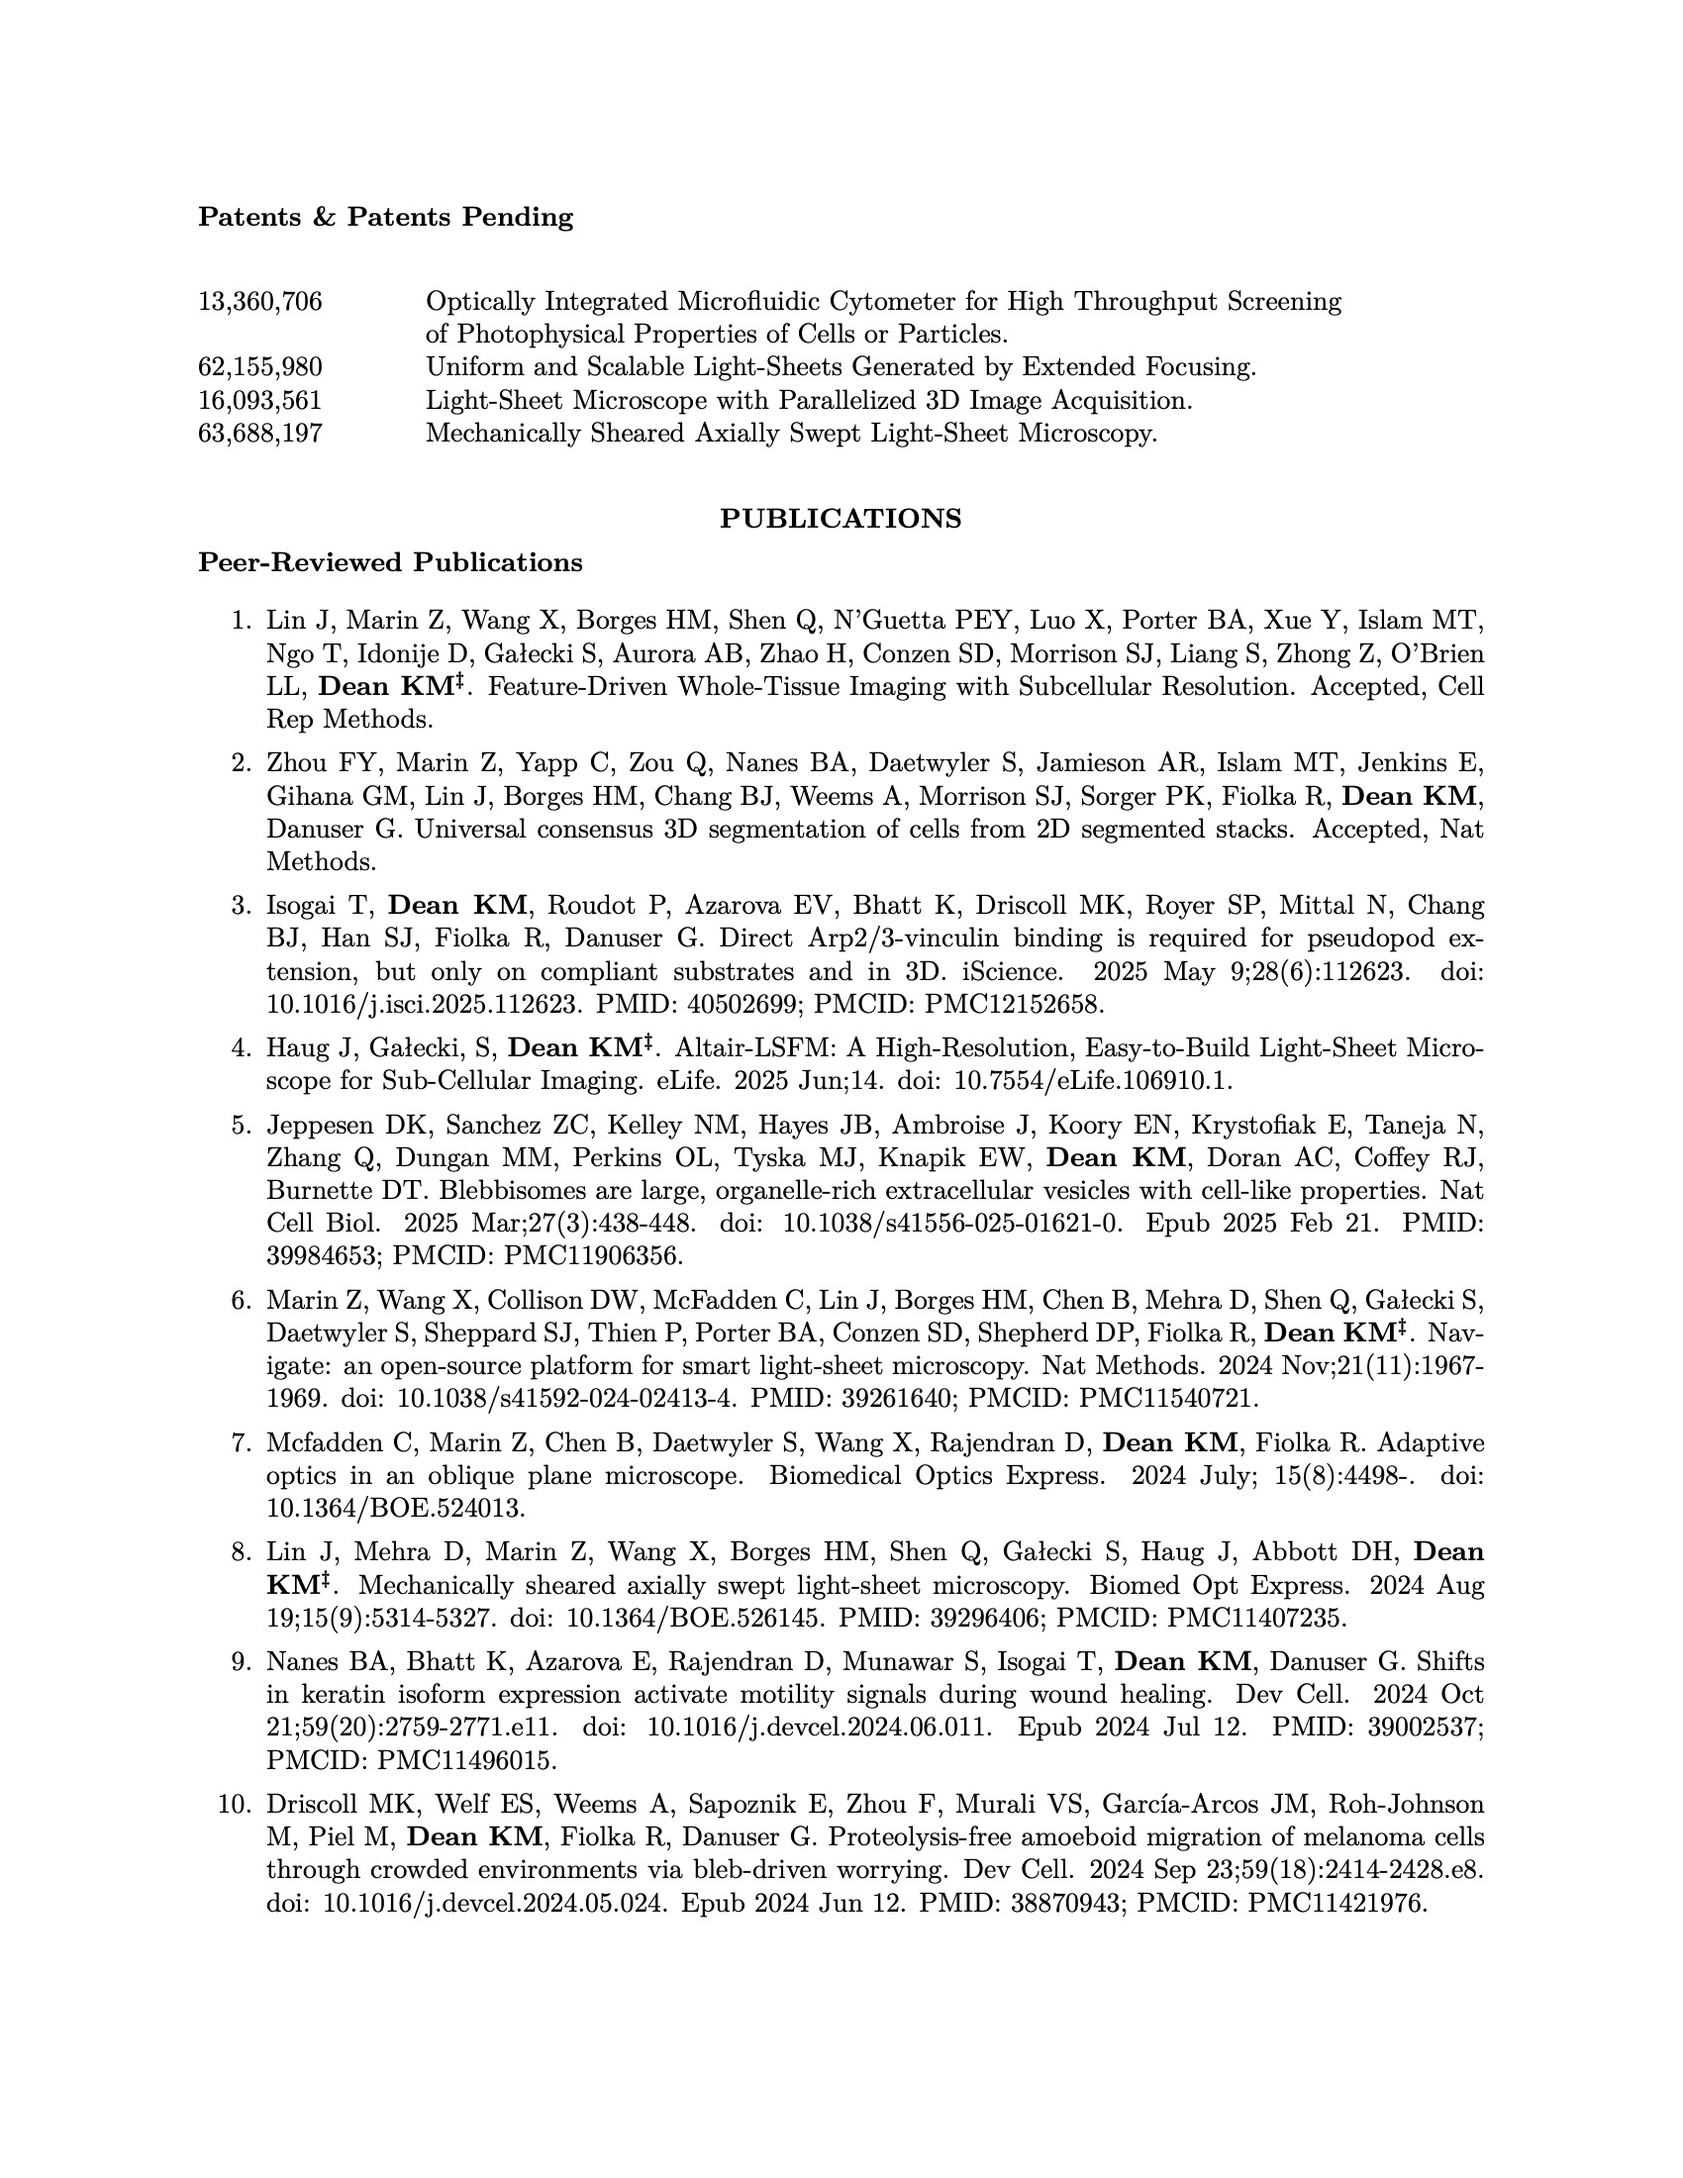
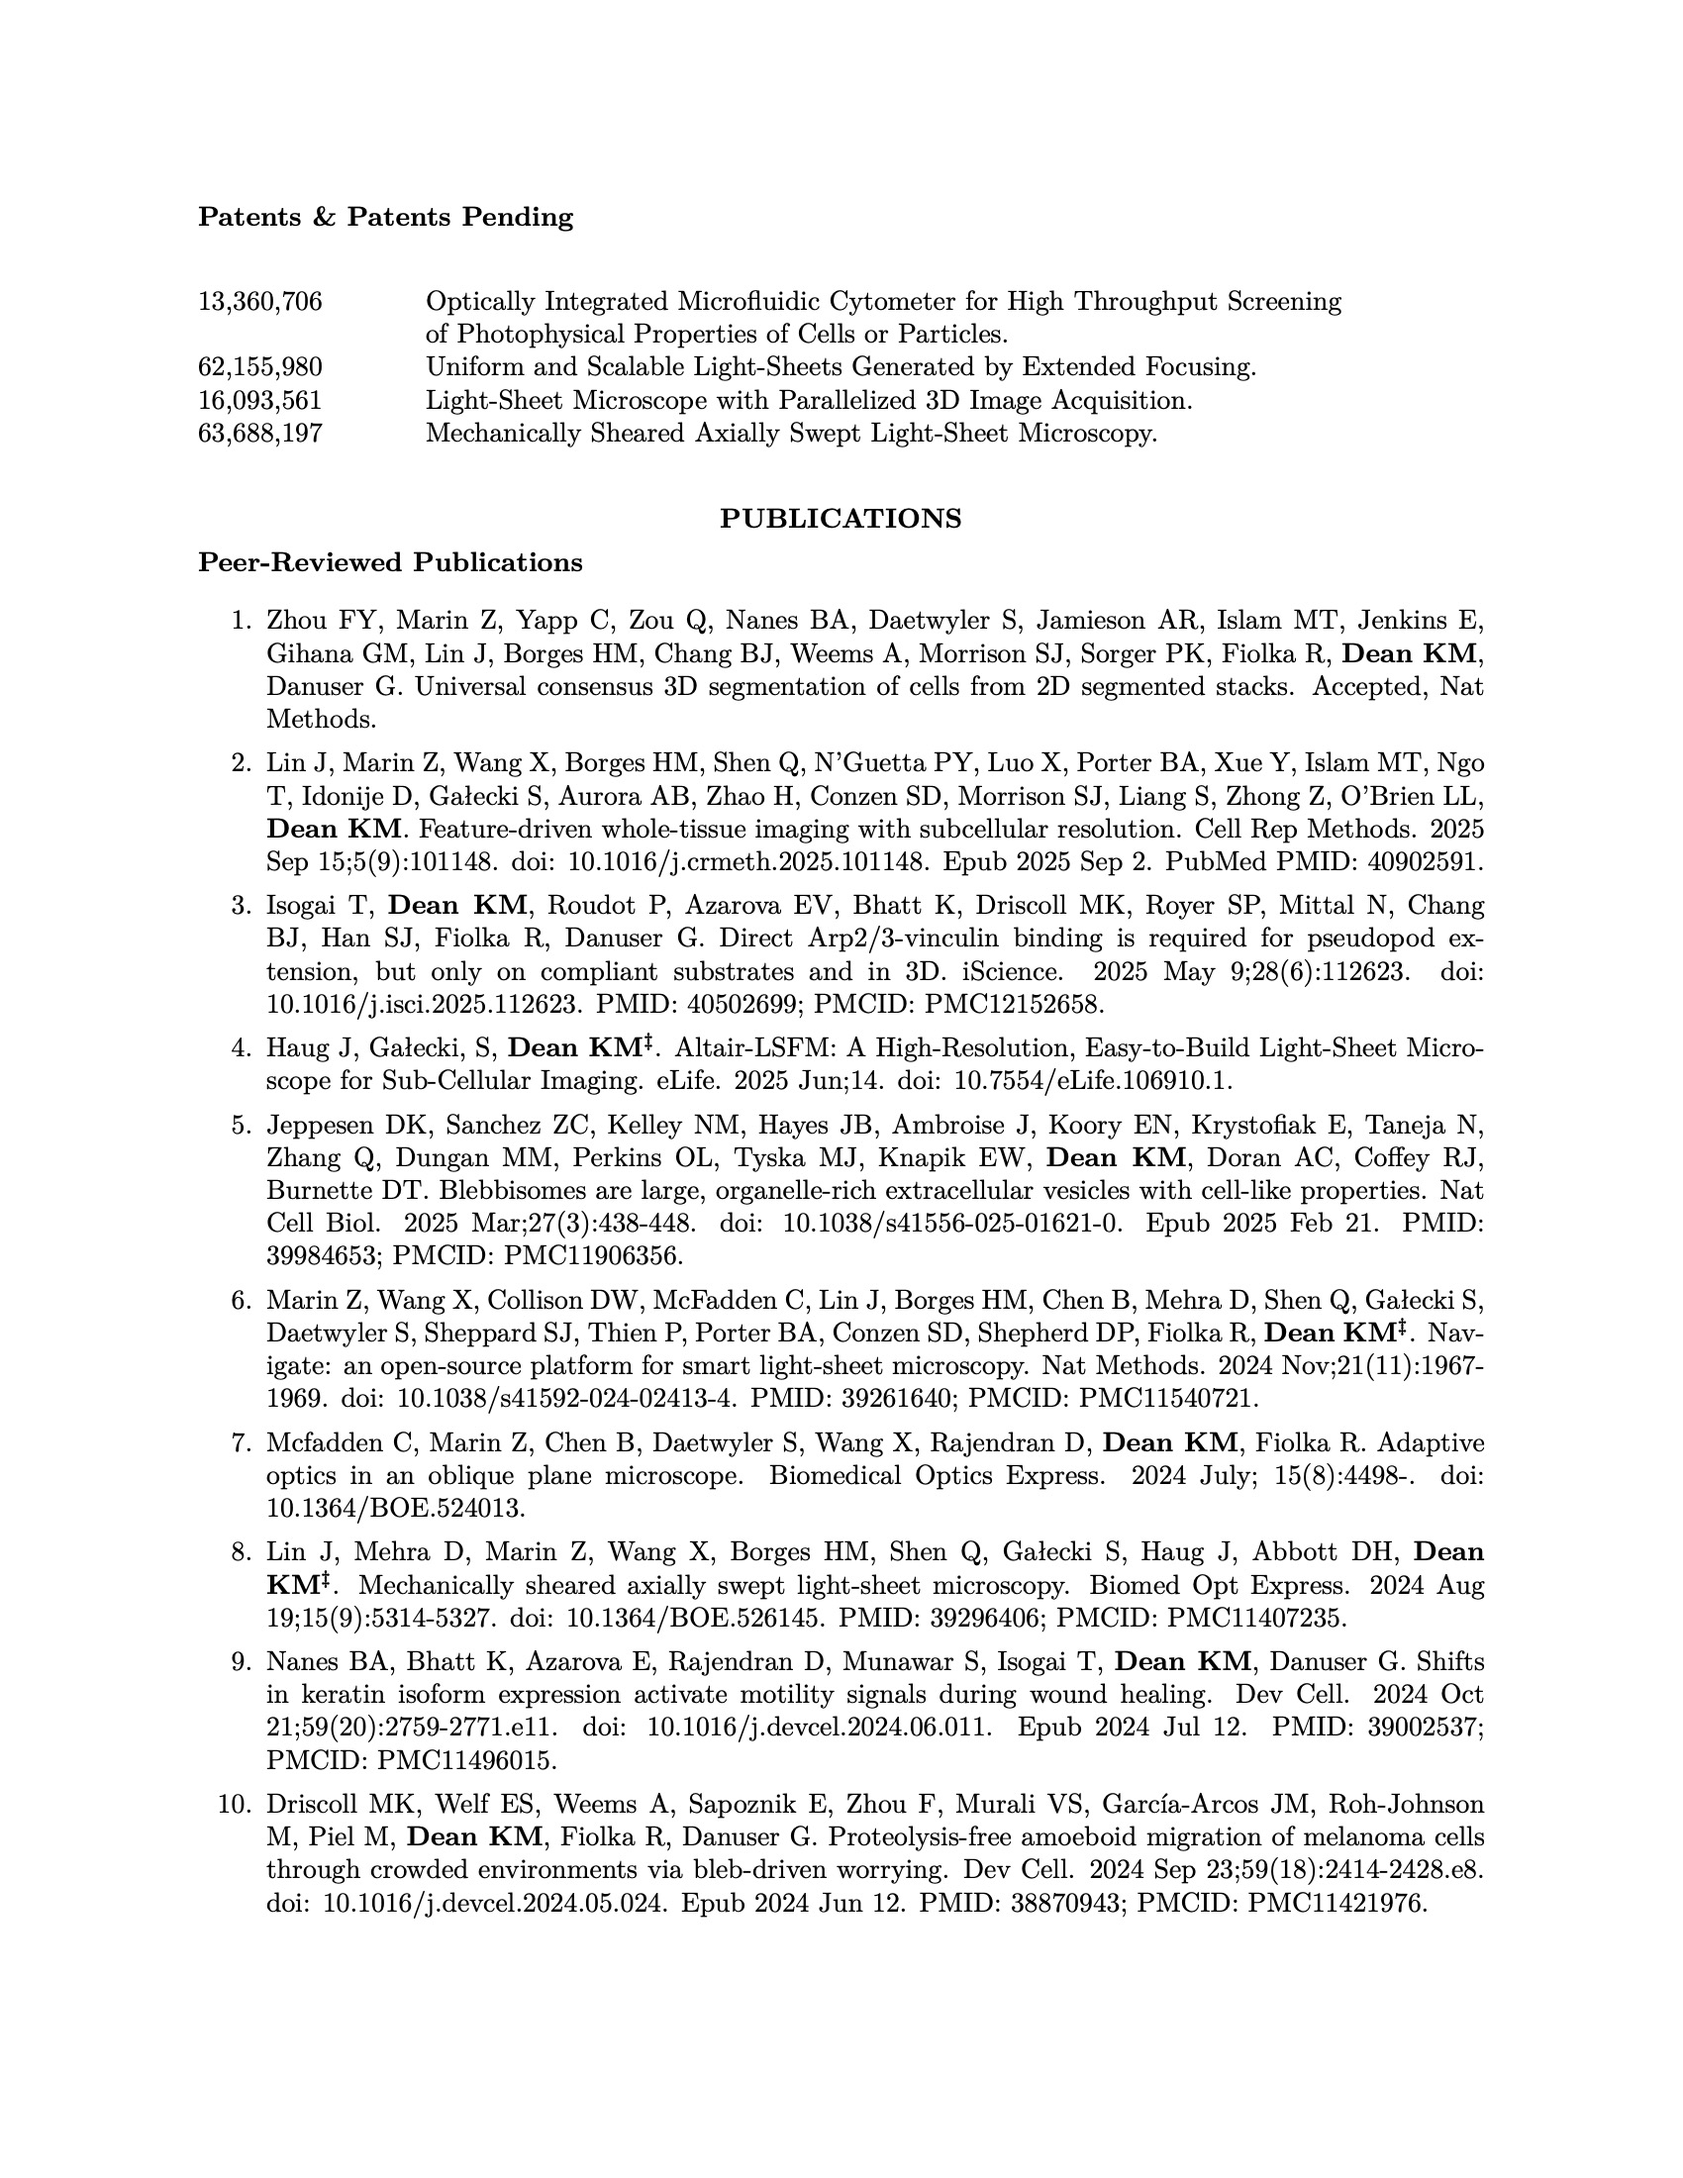
Update CV grants, publications, and images
Updated grant years, roles, and personnel in grants.tex. Added a new publication and updated publication details in publications_nih.tex. Refreshed several CV images and the compiled PDF to reflect these changes.

Changed region(s): [[0.1559, 0.2782, 0.8729, 0.4018]]

diff --git a/files/publications_nih.tex b/files/publications_nih.tex
@@ -1,13 +1,13 @@
 \begin{etaremune}
 
-\item Lin J, Marin Z, Wang X, Borges HM, Shen Q, N’Guetta PEY, Luo X, Porter BA, Xue Y, Islam MT, Ngo T, Idonije D, Gałecki S, Aurora AB, Zhao H, Conzen SD, Morrison SJ, Liang S, Zhong Z, O’Brien LL, \textbf{Dean KM\textsuperscript{‡}}. Feature-Driven Whole-Tissue Imaging with Subcellular Resolution. Accepted, Cell Rep Methods.
 
 \item Zhou FY, Marin Z, Yapp C, Zou Q, Nanes BA, Daetwyler S, Jamieson AR, Islam MT, Jenkins E, Gihana GM, Lin J, Borges HM, Chang BJ, Weems A, Morrison SJ, Sorger PK, Fiolka R, \textbf{Dean KM}, Danuser G. Universal consensus 3D segmentation of cells from 2D segmented stacks. Accepted, Nat Methods.
+
+\item Lin J, Marin Z, Wang X, Borges HM, Shen Q, N'Guetta PY, Luo X, Porter BA, Xue Y, Islam MT, Ngo T, Idonije D, Gałecki S, Aurora AB, Zhao H, Conzen SD, Morrison SJ, Liang S, Zhong Z, O'Brien LL, \textbf{Dean KM}. Feature-driven whole-tissue imaging with subcellular resolution. Cell Rep Methods. 2025 Sep 15;5(9):101148. doi: 10.1016/j.crmeth.2025.101148. Epub 2025 Sep 2. PubMed PMID: 40902591.
 
 \item Isogai T, \textbf{Dean KM}, Roudot P, Azarova EV, Bhatt K, Driscoll MK, Royer SP, Mittal N, Chang BJ, Han SJ, Fiolka R, Danuser G. Direct Arp2/3-vinculin binding is required for pseudopod extension, but only on compliant substrates and in 3D. iScience. 2025 May 9;28(6):112623. doi: 10.1016/j.isci.2025.112623. PMID: 40502699; PMCID: PMC12152658.
 
 \item Haug J, Gałecki, S, \textbf{Dean KM\textsuperscript{‡}}. Altair-LSFM: A High-Resolution, Easy-to-Build Light-Sheet Microscope for Sub-Cellular Imaging. eLife. 2025 Jun;14. doi: 10.7554/eLife.106910.1.
-
 
 \item Jeppesen DK, Sanchez ZC, Kelley NM, Hayes JB, Ambroise J, Koory EN, Krystofiak E, Taneja N, Zhang Q, Dungan MM, Perkins OL, Tyska MJ, Knapik EW, \textbf{Dean KM}, Doran AC, Coffey RJ, Burnette DT. Blebbisomes are large, organelle-rich extracellular vesicles with cell-like properties. Nat Cell Biol. 2025 Mar;27(3):438-448. doi: 10.1038/s41556-025-01621-0. Epub 2025 Feb 21. PMID: 39984653; PMCID: PMC11906356.
 

diff --git a/files/grants.tex b/files/grants.tex
@@ -4,7 +4,7 @@ labelindent=0pt,
 itemindent=-66pt,
 label=\textbullet]
 
-\item 2021 -- 2030 
+\item 2025 -- 2030 
 \hspace{8pt}
 Cancer Cell Imaging Core at UT Southwestern Medical Center \\
 Cancer Prevention Research Institute of Texas (CPRIT). \\
@@ -31,7 +31,7 @@ Co-I \\
 UTSW-UNC Center for Cell Signaling Analysis. \\
 National Institute of General Medical Sciences, NIH. \\
 RM1GM145399 \\ 
-{\it MPI}
+{\it PI}
 % $1,600,000 + $1,074,000 * 4 = $6M
 
 \item 2021 -- 2026 
@@ -47,7 +47,7 @@ U54CA268072 \\
 UT Southwestern Simmons Comprehensive Cancer Center \\
 National Cancer Institute, NIH. \\
 P30CA142543 \\ 
-{\it Key Personnel}
+{\it Other}
 
 \item 2021 -- 2026 
 \hspace{8pt}
